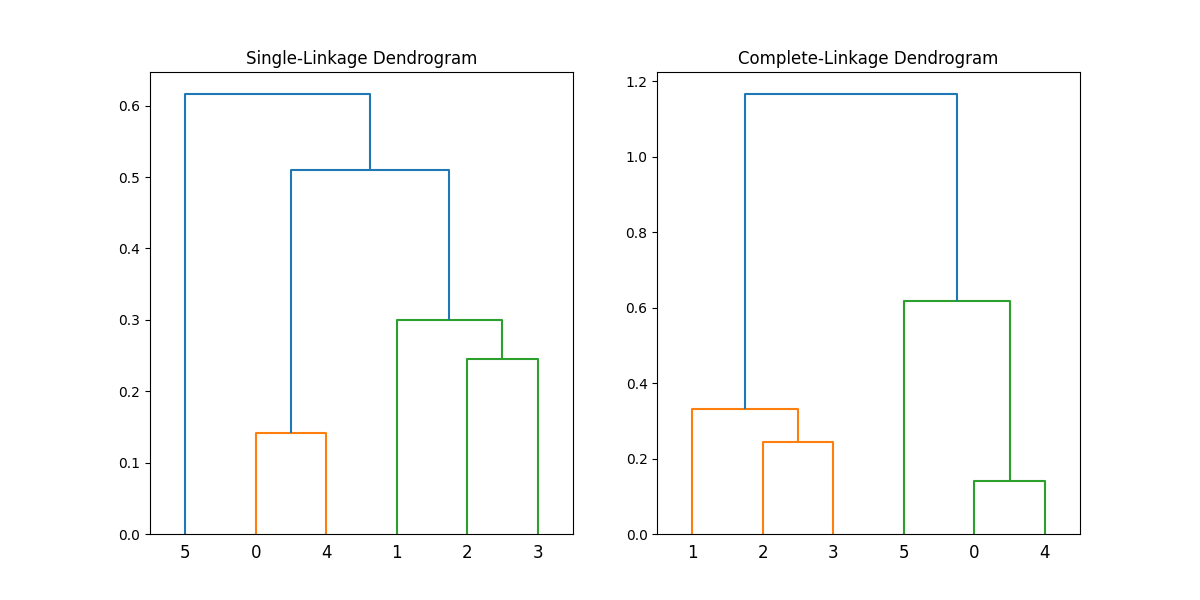
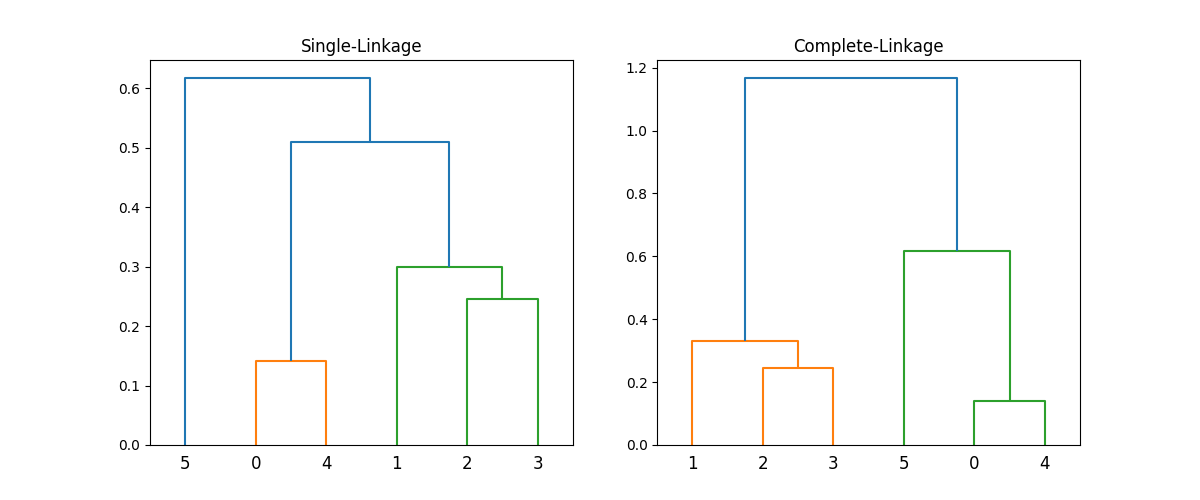
Simplify 9.py by removing unused imports and pandas

diff --git a/9.py b/9.py
@@ -1,27 +1,25 @@
-import pandas as pd
+import numpy as np
 import matplotlib.pyplot as plt
 from sklearn.datasets import load_iris
 from scipy.cluster.hierarchy import dendrogram, linkage
-from sklearn.cluster import AgglomerativeClustering
-
-iris = load_iris()
-X = iris.data[:6]
-
 from scipy.spatial.distance import pdist, squareform
-dist_matrix = squareform(pdist(X, metric='euclidean'))
-print("Proximity Matrix (Euclidean Distance):")
-print(pd.DataFrame(dist_matrix).round(2))
-print()
 
-linked_single = linkage(X, 'single')
-linked_complete = linkage(X, 'complete')
+# Load just 6 samples for a clean dendrogram
+X = load_iris().data[:6]
 
-plt.figure(figsize=(12, 6))
+# Print distance matrix
+print("Proximity Matrix:\n", squareform(pdist(X, 'euclidean')), 2))
+
+plt.figure(figsize=(12, 5))
+
+# Single Linkage
 plt.subplot(1, 2, 1)
-dendrogram(linked_single)
-plt.title('Single-Linkage Dendrogram')
+dendrogram(linkage(X, 'single'))
+plt.title('Single-Linkage')
 
+# Complete Linkage
 plt.subplot(1, 2, 2)
-dendrogram(linked_complete)
-plt.title('Complete-Linkage Dendrogram')
+dendrogram(linkage(X, 'complete'))
+plt.title('Complete-Linkage')
+
 plt.show()

diff --git a/explanation.md b/explanation.md
@@ -12,9 +12,9 @@
 
 ### Output
 ```text
-Starting state: -4.2259
-Local maximum found at x = 1.9741
-Objective value: 3.9993
+Starting state: -3.2014
+Local maximum found at x = 1.9986
+Objective value: 4.0000
 ```
 
 ## `2a.py`
@@ -128,14 +128,13 @@ Centroids: [[5.9016129  2.7483871  4.39354839 1.43387097]
 
 ### Output
 ```text
-Proximity Matrix (Euclidean Distance):
-      0     1     2     3     4     5
-0  0.00  0.54  0.51  0.65  0.14  0.62
-1  0.54  0.00  0.30  0.33  0.61  1.09
-2  0.51  0.30  0.00  0.24  0.51  1.09
-3  0.65  0.33  0.24  0.00  0.65  1.17
-4  0.14  0.61  0.51  0.65  0.00  0.62
-5  0.62  1.09  1.09  1.17  0.62  0.00
+Proximity Matrix:
+ [[0.   0.54 0.51 0.65 0.14 0.62]
+ [0.54 0.   0.3  0.33 0.61 1.09]
+ [0.51 0.3  0.   0.24 0.51 1.09]
+ [0.65 0.33 0.24 0.   0.65 1.17]
+ [0.14 0.61 0.51 0.65 0.   0.62]
+ [0.62 1.09 1.09 1.17 0.62 0.  ]]
 ```
 
 ### Graph
